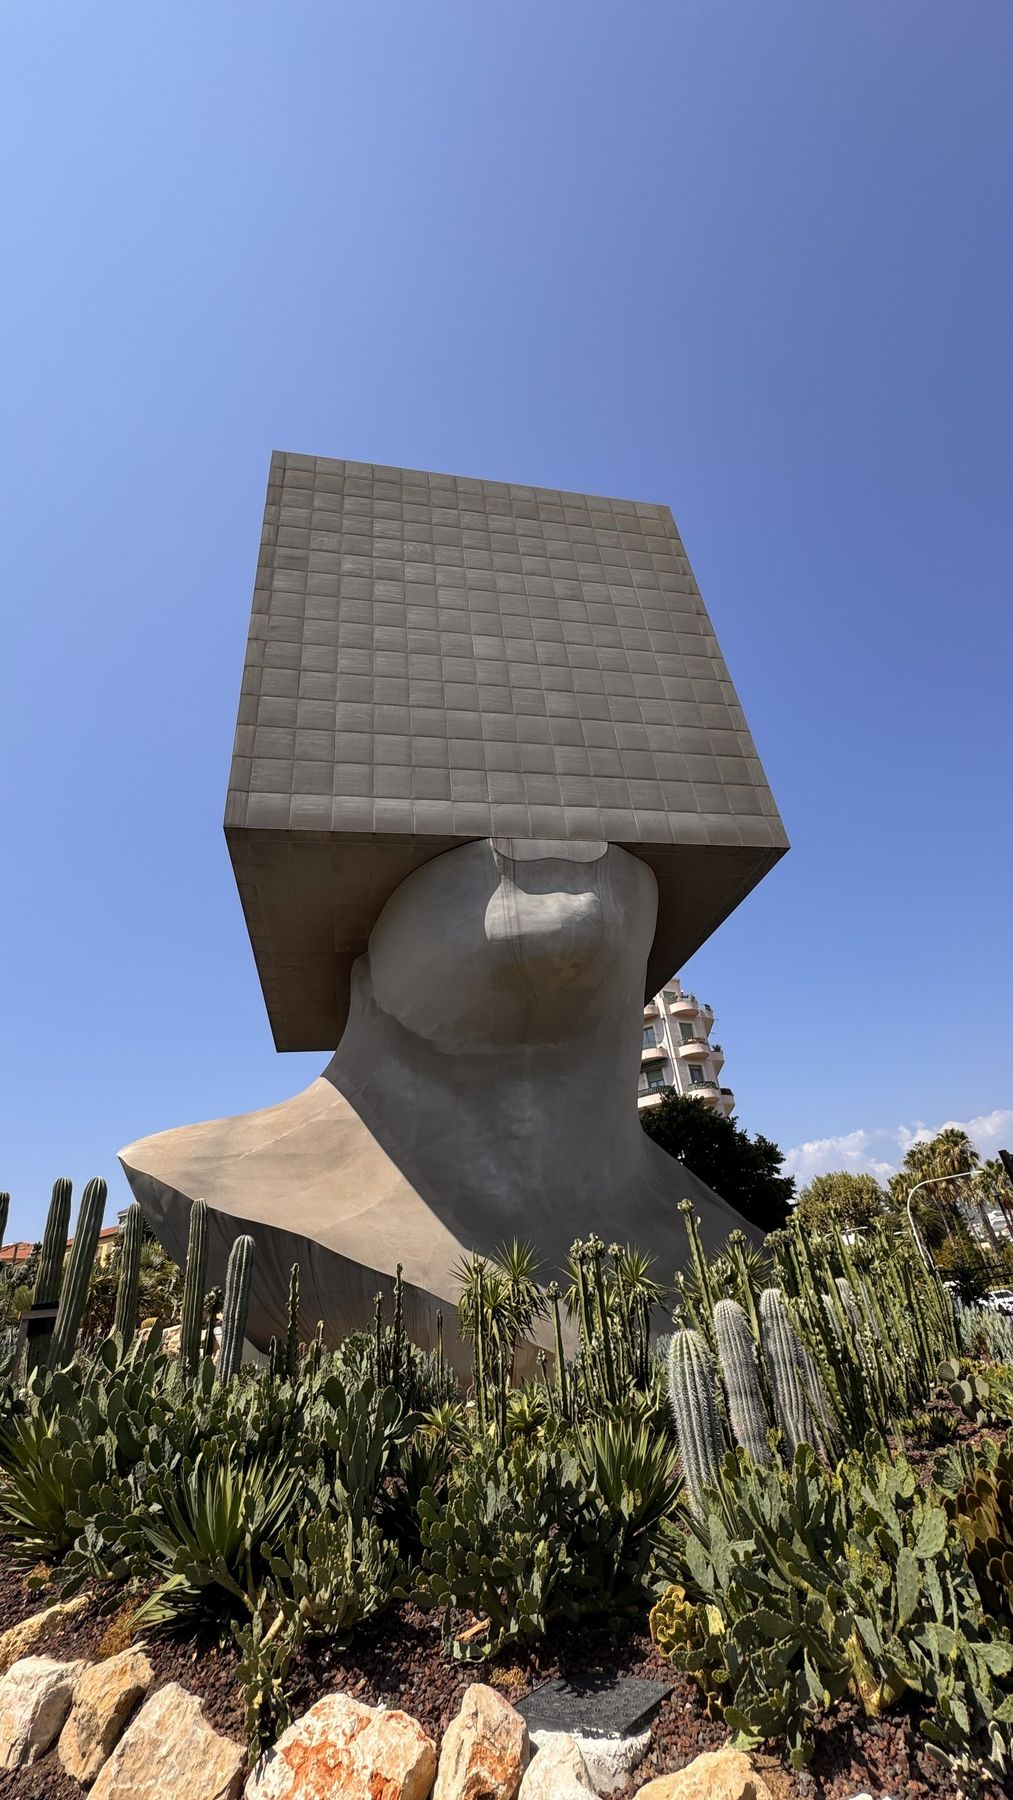
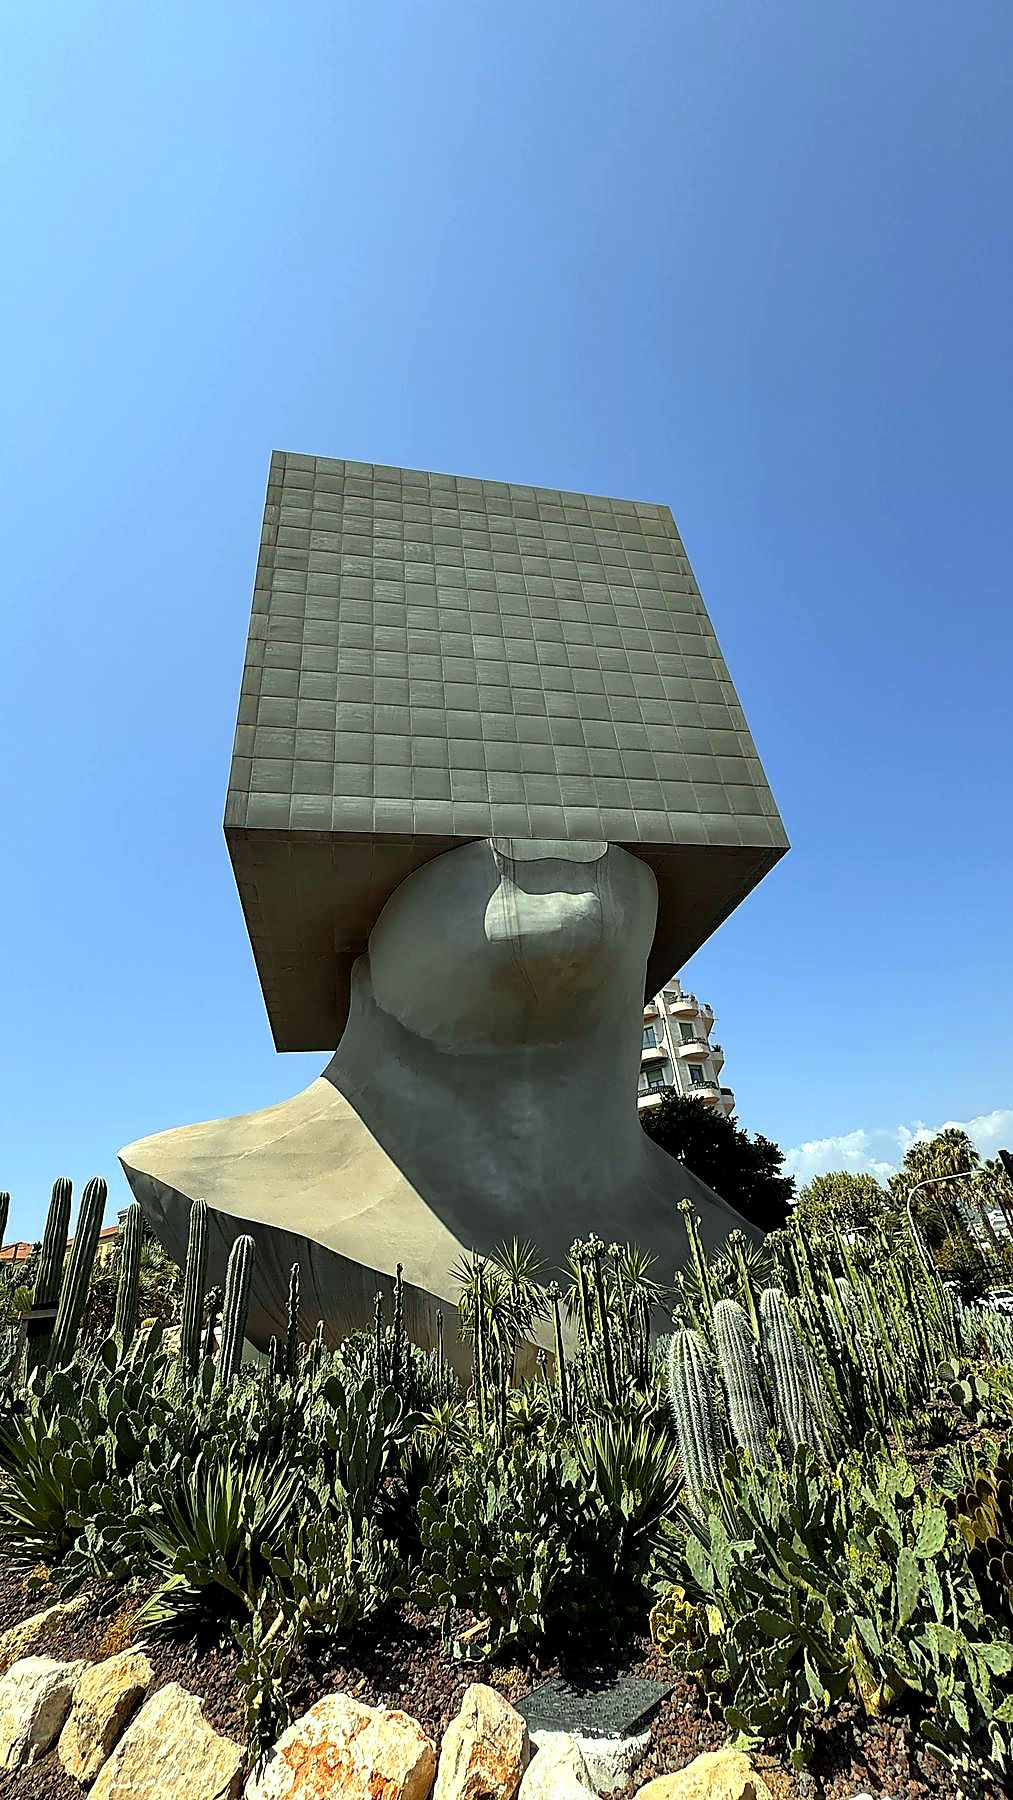
Polish store and week photos, and do it on the next upload too.
The colour and crispness pass never ran, so the pictures landed as shot.

diff --git a/public/admin/add-photos.js b/public/admin/add-photos.js
@@ -176,6 +176,177 @@
     return base + '-' + Date.now().toString(36) + '-' + (index + 1) + '.jpg';
   }
 
+  var MAX_EDGE = 1800;
+
+  function clampByte(value) {
+    if (value < 0) return 0;
+    if (value > 255) return 255;
+    return value;
+  }
+
+  function polishPixels(data, width, height) {
+    var count = (data.length / 4) | 0;
+    var histR = new Uint32Array(256);
+    var histG = new Uint32Array(256);
+    var histB = new Uint32Array(256);
+    var i;
+    for (i = 0; i < data.length; i += 4) {
+      histR[data[i]] += 1;
+      histG[data[i + 1]] += 1;
+      histB[data[i + 2]] += 1;
+    }
+    var cutoff = Math.max(1, Math.floor(count * 0.01));
+
+    function edge(hist, fromTop) {
+      var seen = 0;
+      var v;
+      if (fromTop) {
+        for (v = 255; v >= 0; v -= 1) {
+          seen += hist[v];
+          if (seen >= cutoff) return v;
+        }
+        return 255;
+      }
+      for (v = 0; v < 256; v += 1) {
+        seen += hist[v];
+        if (seen >= cutoff) return v;
+      }
+      return 0;
+    }
+
+    var loR = edge(histR, false);
+    var hiR = edge(histR, true);
+    var loG = edge(histG, false);
+    var hiG = edge(histG, true);
+    var loB = edge(histB, false);
+    var hiB = edge(histB, true);
+    if (hiR <= loR) {
+      loR = 0;
+      hiR = 255;
+    }
+    if (hiG <= loG) {
+      loG = 0;
+      hiG = 255;
+    }
+    if (hiB <= loB) {
+      loB = 0;
+      hiB = 255;
+    }
+    var spanR = hiR - loR;
+    var spanG = hiG - loG;
+    var spanB = hiB - loB;
+
+    for (i = 0; i < data.length; i += 4) {
+      var r = ((data[i] - loR) * 255) / spanR;
+      var g = ((data[i + 1] - loG) * 255) / spanG;
+      var b = ((data[i + 2] - loB) * 255) / spanB;
+      var avg = (r + g + b) / 3;
+      r = avg + (r - avg) * 1.08;
+      g = avg + (g - avg) * 1.08;
+      b = avg + (b - avg) * 1.08;
+      r = (r - 128) * 1.06 + 128;
+      g = (g - 128) * 1.06 + 128;
+      b = (b - 128) * 1.06 + 128;
+      data[i] = clampByte(r);
+      data[i + 1] = clampByte(g);
+      data[i + 2] = clampByte(b);
+    }
+
+    var src = new Uint8ClampedArray(data);
+    var amount = 0.45;
+    function at(x, y, channel) {
+      if (x < 0) x = 0;
+      if (y < 0) y = 0;
+      if (x >= width) x = width - 1;
+      if (y >= height) y = height - 1;
+      return src[(y * width + x) * 4 + channel];
+    }
+    var y;
+    var x;
+    var c;
+    for (y = 0; y < height; y += 1) {
+      for (x = 0; x < width; x += 1) {
+        var px = (y * width + x) * 4;
+        for (c = 0; c < 3; c += 1) {
+          var blur =
+            (at(x - 1, y, c) + at(x + 1, y, c) + at(x, y - 1, c) + at(x, y + 1, c) + at(x, y, c) * 4) / 8;
+          data[px + c] = clampByte(src[px + c] + (src[px + c] - blur) * amount);
+        }
+      }
+    }
+  }
+
+  function stampPolish(blob) {
+    return blob.arrayBuffer().then(function (buffer) {
+      var bytes = new Uint8Array(buffer);
+      if (bytes.length < 2 || bytes[0] !== 0xff || bytes[1] !== 0xd8) return blob;
+      var comment = new TextEncoder().encode('ss-polish-1');
+      var segment = new Uint8Array(4 + comment.length);
+      segment[0] = 0xff;
+      segment[1] = 0xfe;
+      var length = comment.length + 2;
+      segment[2] = (length >> 8) & 255;
+      segment[3] = length & 255;
+      segment.set(comment, 4);
+      var out = new Uint8Array(bytes.length + segment.length);
+      out.set(bytes.subarray(0, 2), 0);
+      out.set(segment, 2);
+      out.set(bytes.subarray(2), 2 + segment.length);
+      return new Blob([out], { type: 'image/jpeg' });
+    });
+  }
+
+  function polishFile(file) {
+    return new Promise(function (resolve) {
+      var url = URL.createObjectURL(file);
+      var img = new Image();
+      img.onload = function () {
+        URL.revokeObjectURL(url);
+        var edge = Math.max(img.naturalWidth, img.naturalHeight) || 1;
+        var scale = Math.min(1, MAX_EDGE / edge);
+        var width = Math.max(1, Math.round(img.naturalWidth * scale));
+        var height = Math.max(1, Math.round(img.naturalHeight * scale));
+        var canvas = document.createElement('canvas');
+        canvas.width = width;
+        canvas.height = height;
+        var ctx = canvas.getContext('2d', { alpha: false });
+        if (!ctx) {
+          resolve(file);
+          return;
+        }
+        ctx.fillStyle = '#fff';
+        ctx.fillRect(0, 0, width, height);
+        ctx.drawImage(img, 0, 0, width, height);
+        try {
+          var frame = ctx.getImageData(0, 0, width, height);
+          polishPixels(frame.data, width, height);
+          ctx.putImageData(frame, 0, 0);
+        } catch (err) {
+          resolve(file);
+          return;
+        }
+        canvas.toBlob(
+          function (blob) {
+            if (!blob) {
+              resolve(file);
+              return;
+            }
+            stampPolish(blob).then(resolve, function () {
+              resolve(blob);
+            });
+          },
+          'image/jpeg',
+          0.82,
+        );
+      };
+      img.onerror = function () {
+        URL.revokeObjectURL(url);
+        resolve(file);
+      };
+      img.src = url;
+    });
+  }
+
   function readBase64(file) {
     return new Promise(function (resolve, reject) {
       var reader = new FileReader();
@@ -195,7 +366,9 @@
     var name = fileName(file, index);
     var repoPath = 'public/stories/' + name;
     var message = 'Upload “' + name + '”';
-    return readBase64(file).then(function (content) {
+    return polishFile(file).then(function (polished) {
+      return readBase64(polished);
+    }).then(function (content) {
       if (isLocalHost()) {
         return proxy('persistMedia', {
           asset: { path: repoPath, content: content, encoding: 'base64' },
@@ -332,13 +505,13 @@
     var leftOut = files.length - batch.length;
 
     busy = true;
-    setProgress('Adding 1/' + batch.length + '…');
+    setProgress('Polishing 1/' + batch.length + '…');
 
     var added = [];
     var chain = Promise.resolve();
     batch.forEach(function (file, index) {
       chain = chain.then(function () {
-        setProgress('Adding ' + (index + 1) + '/' + batch.length + '…');
+        setProgress('Polishing ' + (index + 1) + '/' + batch.length + '…');
         return uploadOne(file, index).then(function (path) {
           added.push(path);
         });

diff --git a/public/admin/index.html b/public/admin/index.html
@@ -751,10 +751,10 @@
             <p style="margin: 0.55rem 0 0">
               <strong>Stores &amp; This week:</strong> open the shop or note, then
               <strong>Add photos</strong> in the You are here bar. Shift-click every JPEG in the
-              Mac window. They land together. Then gold <strong>Save</strong>. A store holds 24,
-              a week note 40. Not HEIC. On the site the thumbs sit on the
-              <strong>right</strong> of the text. To take a post off the site, open it and tap
-              <strong>Delete this</strong> beside Save.
+              Mac window. Each one gets a light colour and crispness pass, then they land
+              together. Then gold <strong>Save</strong>. A store holds 24, a week note 40. Not
+              HEIC. To take a post off the site, open it and tap <strong>Delete this</strong>
+              beside Save.
             </p>
             <p style="margin: 0.55rem 0 0">
               <strong>Friends:</strong> open <em>Friends</em>, then <strong>New Friend</strong>.
@@ -882,7 +882,7 @@
     <script src="/admin/mail-gold.js"></script>
     <script src="/admin/ride-preview.js"></script>
     <script src="/admin/here-red.js"></script>
-    <script src="/admin/add-photos.js"></script>
+    <script src="/admin/add-photos.js?v=polish1"></script>
     <script src="/admin/where-you-are.js"></script>
   </body>
 </html>

diff --git a/scripts/enhance-photos.py b/scripts/enhance-photos.py
@@ -42,6 +42,9 @@ RASTER_SUFFIXES = {".jpg", ".jpeg", ".png", ".webp"}
 # HEIC needs pillow-heif or a Mac pre-convert (see enhance-photo.sh).
 HEIC_SUFFIXES = {".heic", ".heif"}
 
+# Stamped into the JPEG comment so a later run does not polish twice.
+MARKER = b"ss-polish-1"
+
 # Mild morning-greeting energy — not Instagram sludge.
 SATURATION = 1.08
 CONTRAST = 1.06
@@ -165,7 +168,12 @@ def encode_under_budget(
                 label = "PNG"
             else:
                 stripped.save(
-                    buffer, "JPEG", quality=quality, optimize=True, progressive=True
+                    buffer,
+                    "JPEG",
+                    quality=quality,
+                    optimize=True,
+                    progressive=True,
+                    comment=MARKER,
                 )
                 label = f"JPEG q{quality}"
             candidate = buffer.getvalue()
@@ -195,12 +203,26 @@ def output_path(src: Path, *, in_place: bool, keep_png: bool) -> Path:
     return src.with_name(f"{stem}_enhanced{suffix}")
 
 
+def already_polished(path: Path) -> bool:
+    try:
+        with Image.open(path) as image:
+            comment = image.info.get("comment") or b""
+            if isinstance(comment, str):
+                comment = comment.encode()
+            return MARKER in comment
+    except Exception:
+        return False
+
+
 def enhance_one(path: Path, *, in_place: bool, dry_run: bool) -> tuple[bool, str]:
     suffix = path.suffix.lower()
     if suffix in HEIC_SUFFIXES and dry_run:
         return True, "HEIC (would convert via pillow-heif or enhance-photo.sh)"
     if suffix not in RASTER_SUFFIXES | HEIC_SUFFIXES:
         return False, f"unsupported type {suffix}"
+
+    if already_polished(path):
+        return True, f"already polished {path.name}"
 
     try:
         image = load_image(path)
